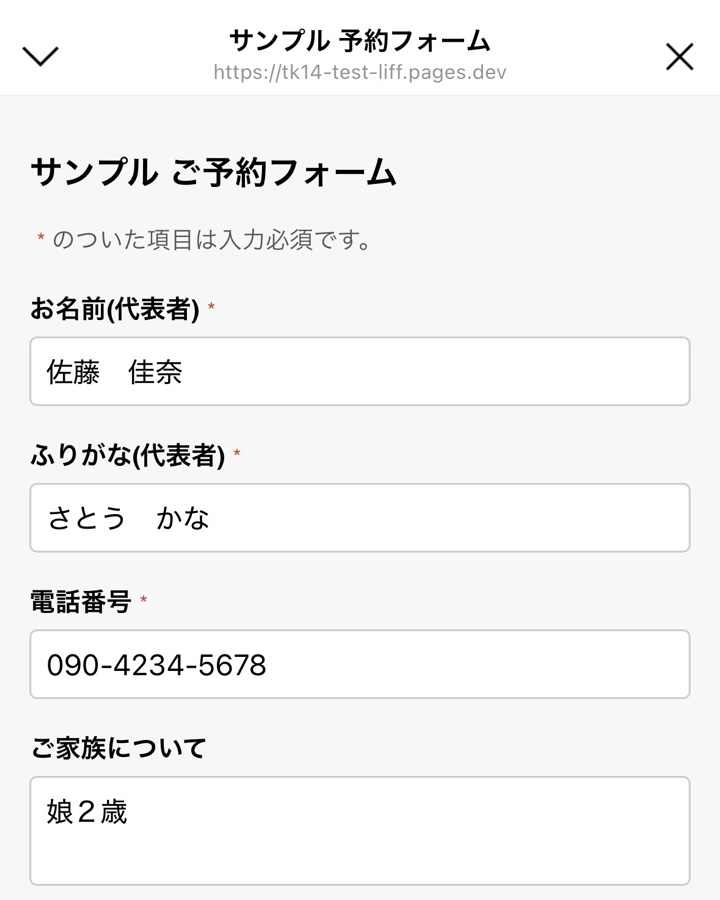
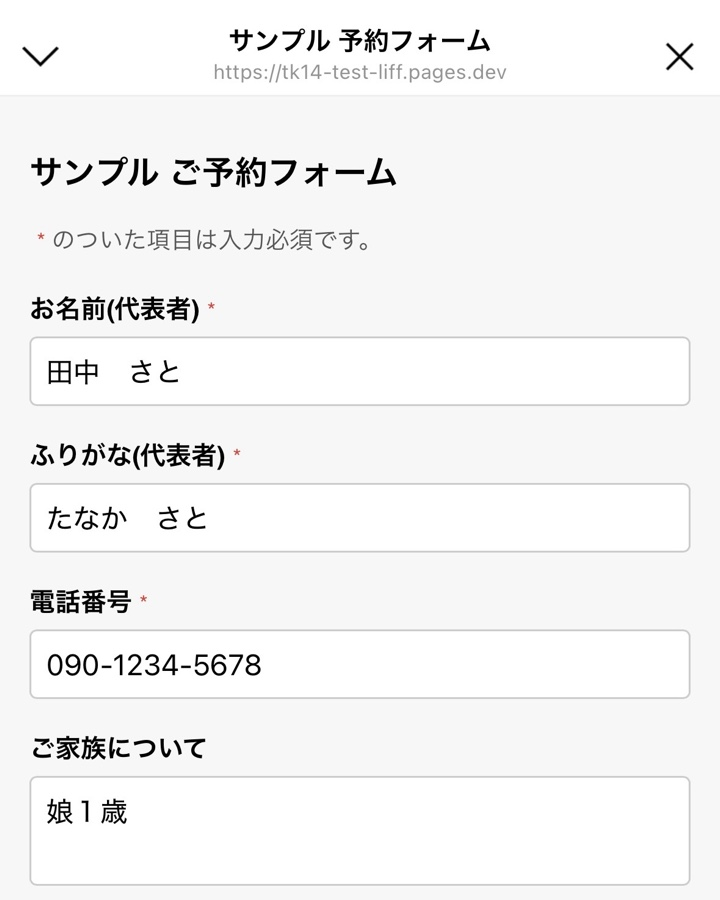
Add reservation confirmation screenshot

diff --git a/ai/reservation/index.html b/ai/reservation/index.html
@@ -7,7 +7,7 @@
   <meta name="description" content="LINEでの予約受付から予約確定、前日リマインド、終了後アンケート、顧客情報の整理まで。個人で活動する方の仕事に合わせて整える予約受付、顧客管理の仕組み。">
   <link rel="canonical" href="https://tk14.jp/ai/reservation/">
   <link rel="stylesheet" href="/assets/css/site.css?v=61">
-  <link rel="stylesheet" href="/assets/css/reservation-page.css?v=21">
+  <link rel="stylesheet" href="/assets/css/reservation-page.css?v=22">
 </head>
 <body class="profile-minimal site-ai reservation-page">
   <header class="profile-header">
@@ -76,8 +76,9 @@
         <p class="reservation-kicker">Screenshots</p>
         <h2>お客様にも、管理者にも<br>わかりやすい仕組みを。</h2>
         <div class="reservation-screens reservation-screens--phone">
-          <figure class="reservation-slot reservation-slot--phone"><img src="/images/ai-reservation-line-booking.jpg?v=1" alt="公式LINE上で入力する予約申込みフォームの画面"><figcaption>お客様が、公式LINEから必要な内容を入力して予約申し込みをします。</figcaption></figure>
-          <figure class="reservation-slot reservation-slot--phone"><img src="/images/ai-reservation-reminder.jpg?v=2" alt="公式LINEで届く予約前日のリマインド画面"><figcaption>失念してはいけない、予約前日のリマインドを自動で送れます。</figcaption></figure>
+          <figure class="reservation-slot reservation-slot--phone"><img src="/images/ai-reservation-line-booking.jpg?v=2" alt="公式LINE上で入力する予約申込みフォームの画面"><figcaption>お客様が、公式LINEから必要な内容を入力して予約申し込みをします。</figcaption></figure>
+          <figure class="reservation-slot reservation-slot--phone"><img src="/images/ai-reservation-confirmation.jpg?v=1" alt="管理者が予約を確定する操作画面"><figcaption>管理者が申込内容を確認し、予約確定の操作を行います。</figcaption></figure>
+          <figure class="reservation-slot reservation-slot--phone"><img src="/images/ai-reservation-reminder.jpg?v=3" alt="公式LINEで届く予約前日のリマインド画面"><figcaption>失念してはいけない、予約前日のリマインドを自動で送れます。</figcaption></figure>
         </div>
       </div>
     </section>

diff --git a/assets/css/reservation-page.css b/assets/css/reservation-page.css
@@ -29,7 +29,7 @@
 .reservation-features h3 { grid-column: 2; grid-row: 1; margin: 0; color: #102a43; font-size: 1.06rem; font-weight: 500; }
 .reservation-features p { grid-column: 1 / -1; grid-row: 2; margin: 14px 0 0; color: #30475f; font-size: .9rem; line-height: 1.75; }
 .reservation-screens { display: grid; gap: 24px; margin-top: 42px; }
-.reservation-screens--phone { grid-template-columns: repeat(2, minmax(0, 300px)); justify-content: center; }
+.reservation-screens--phone { grid-template-columns: repeat(3, minmax(0, 270px)); justify-content: center; }
 .reservation-slot { margin: 0; }
 .reservation-slot img { display: block; width: 100%; aspect-ratio: 4 / 5; border: 1px solid #d3e1e6; object-fit: cover; }
 .reservation-slot figcaption { padding-top: 14px; color: #62798a; font-size: .9rem; line-height: 1.7; }
@@ -73,6 +73,7 @@
   .reservation-features article:last-child { grid-column: auto; }
   .reservation-features article { min-height: 0; }
   .reservation-screens--phone { grid-template-columns: repeat(2, minmax(0,1fr)); gap: 18px; max-width: 560px; }
+  .reservation-screens--phone .reservation-slot:nth-child(3):last-child { grid-column: 1 / -1; justify-self: center; width: calc((100% - 18px) / 2); }
   .reservation-slot figcaption { font-size: .8rem; }
   .reservation-flow article { grid-template-columns: 40px 1fr; gap: 14px; }
   .ai-reservation-preview__card { gap: 24px; padding: 28px 24px; }
